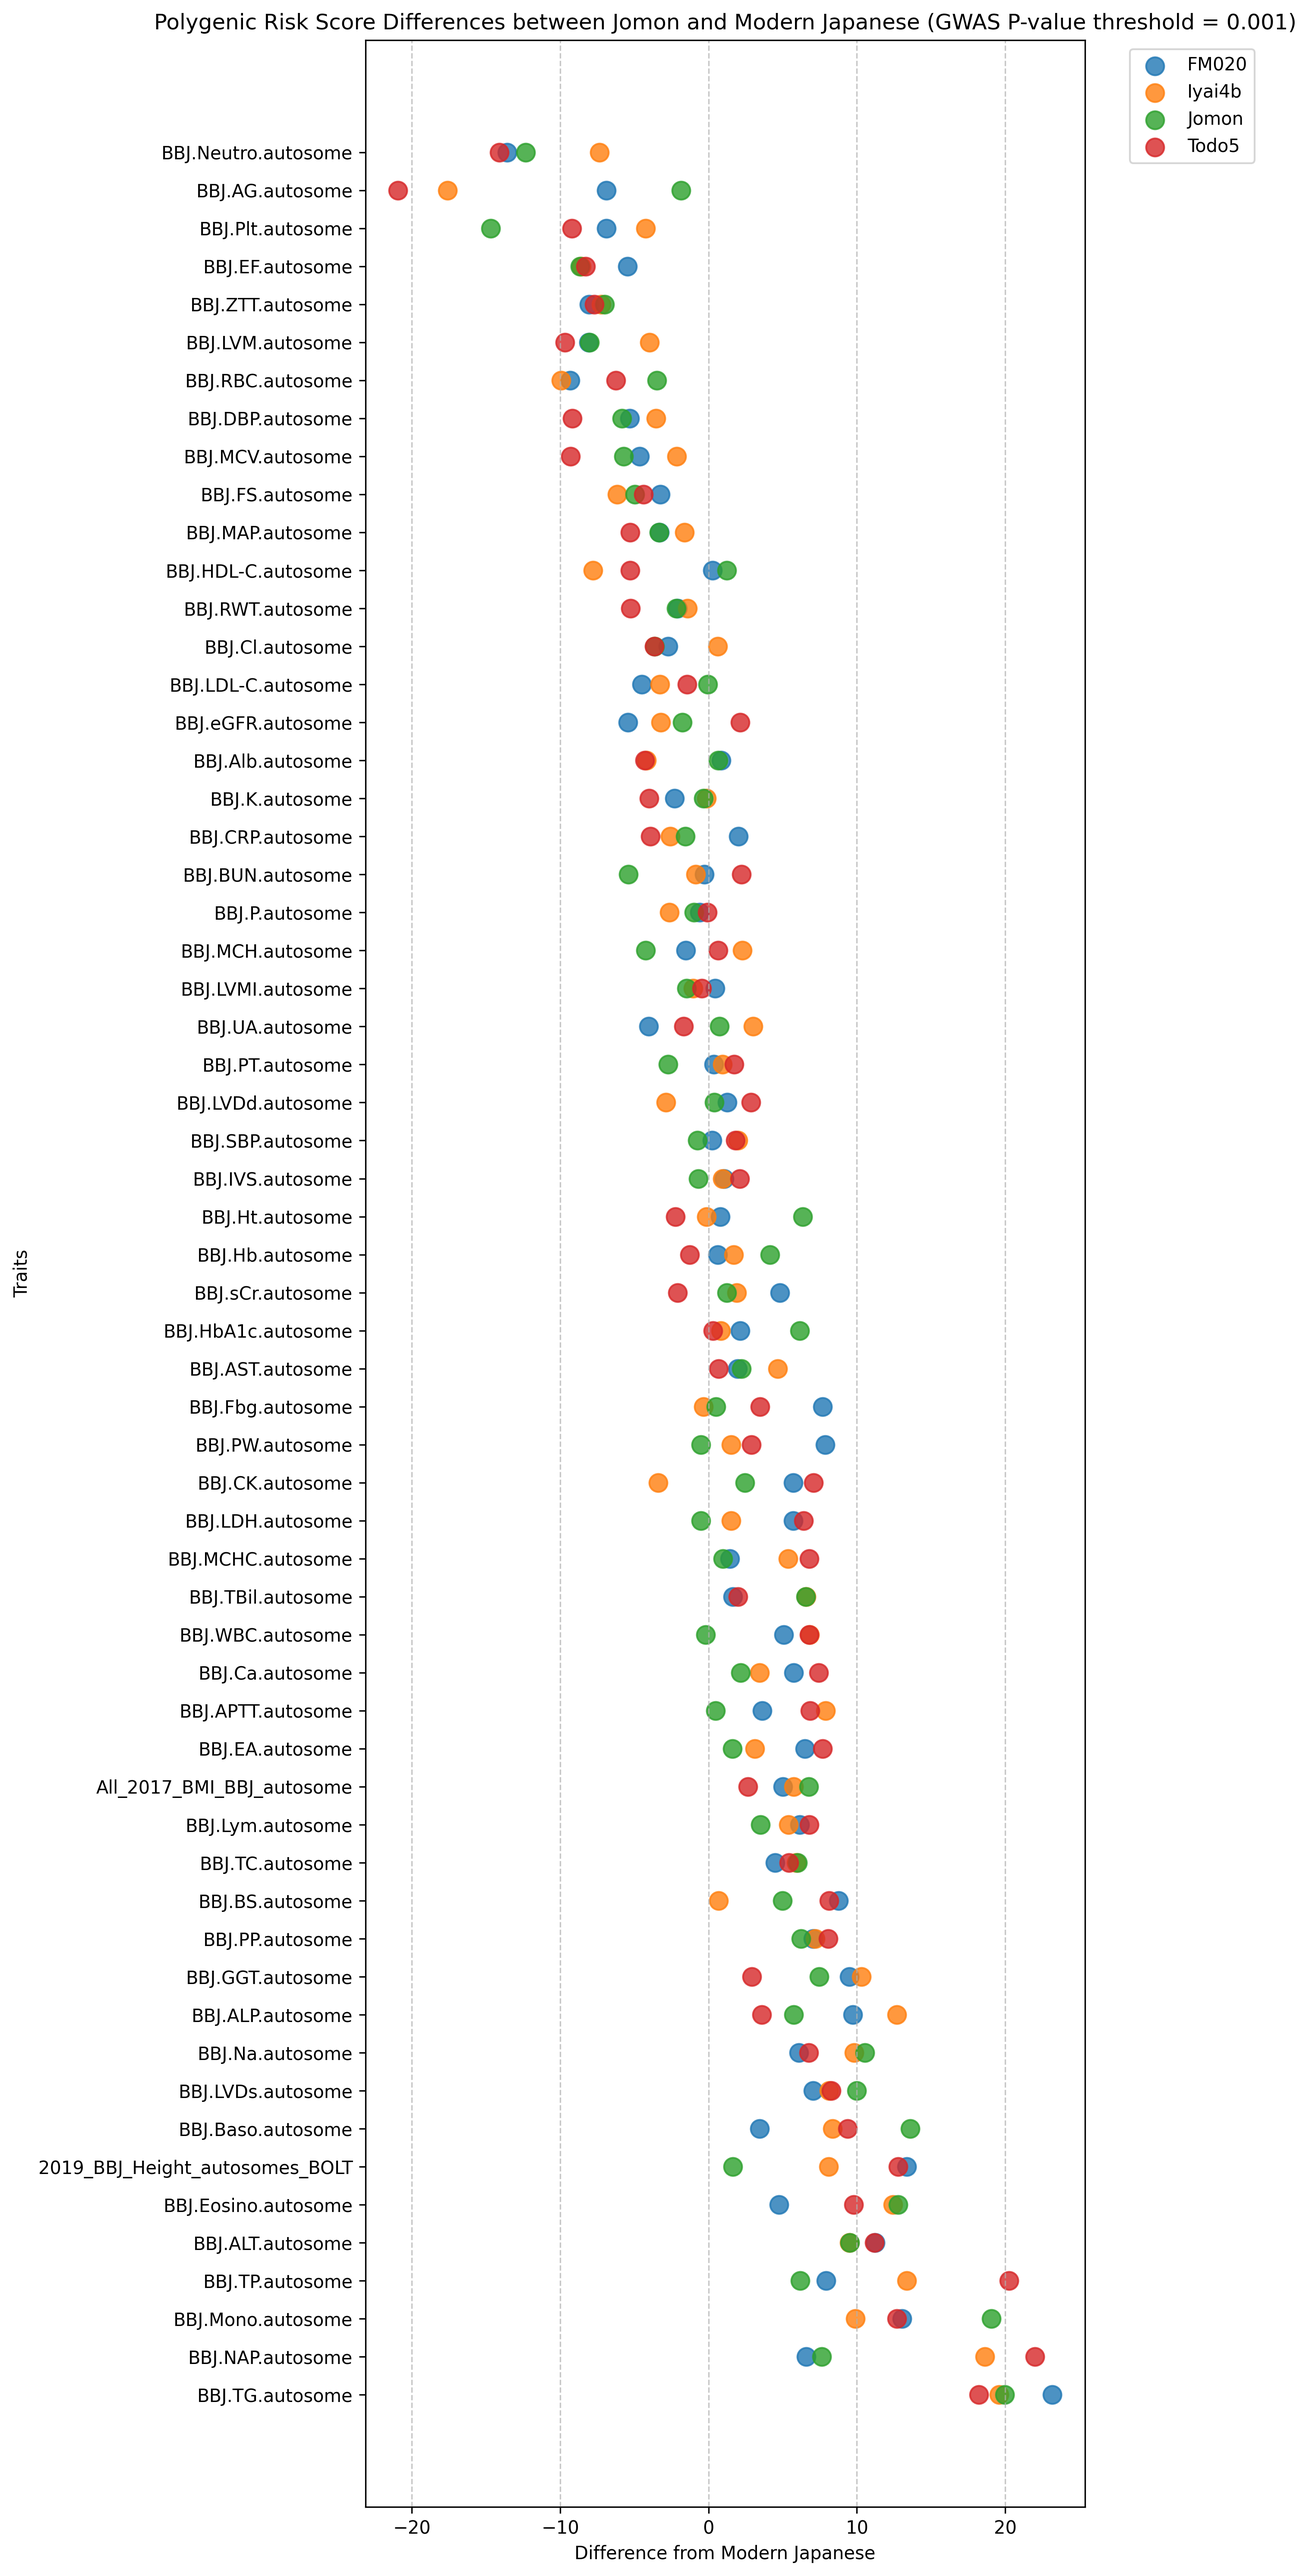
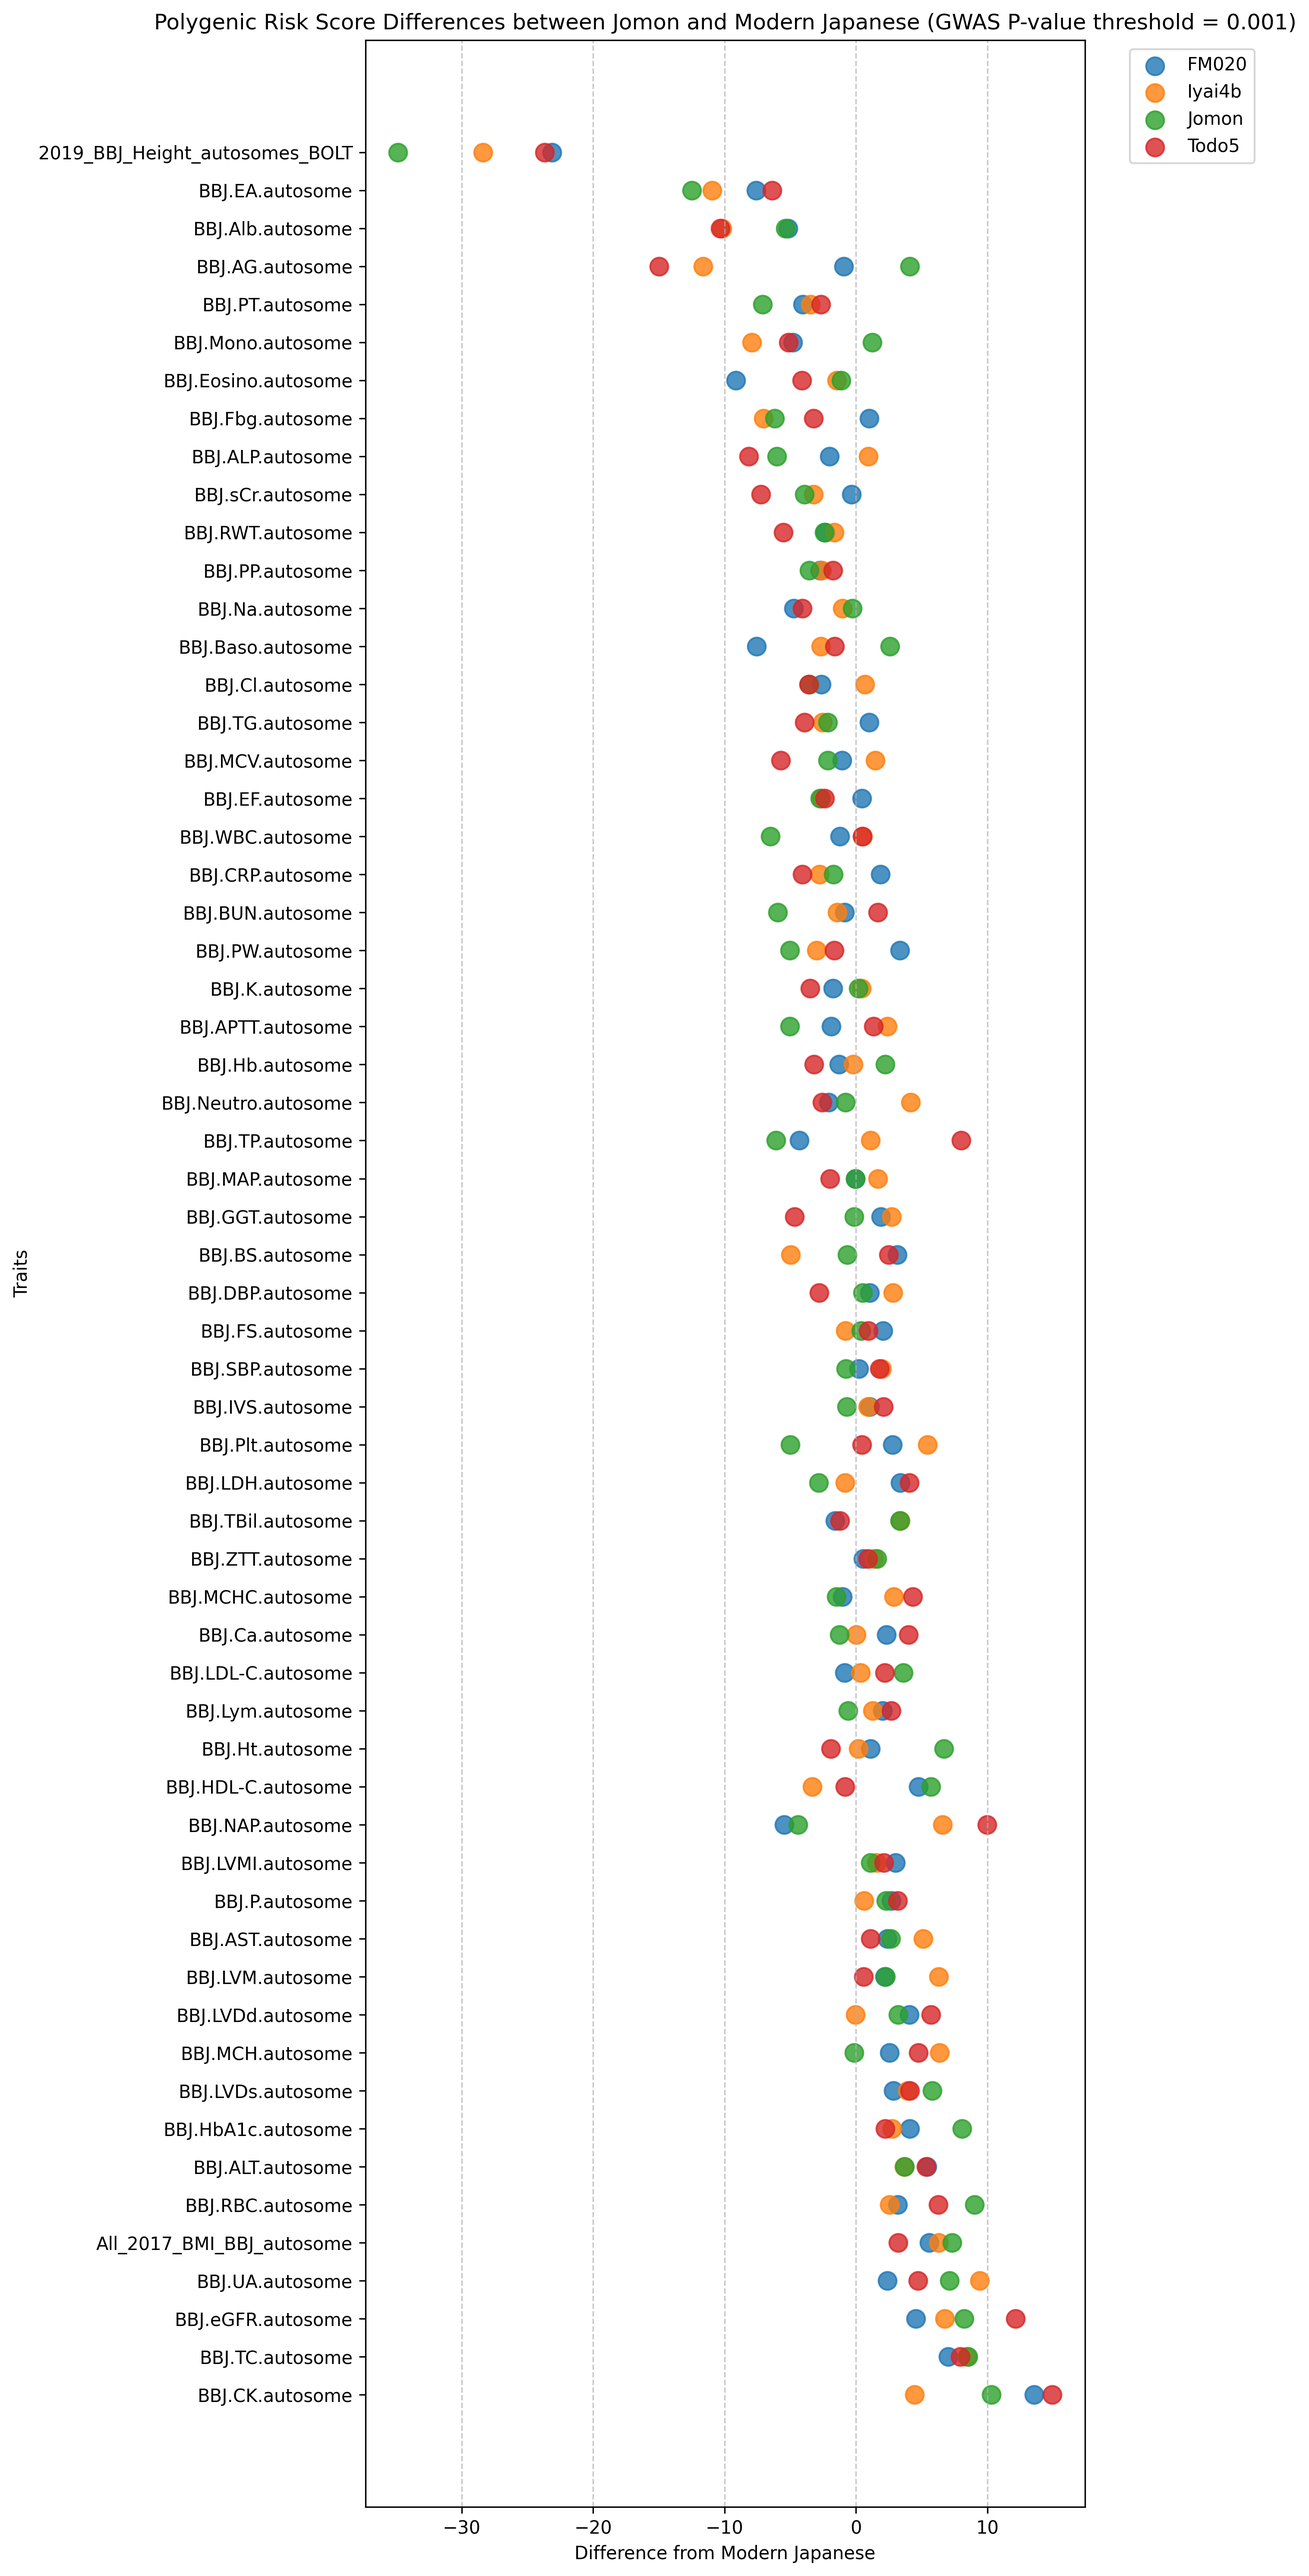
日本人平均をひかずに計算

diff --git a/6-PRS/plot.py b/6-PRS/plot.py
@@ -6,7 +6,7 @@ def plot_PRS_diff(threshold):
     data = pd.read_csv(f"/home/mkato/hdd_data/data/PS/PRS_scores/PRS_scores_p{threshold}.txt", sep="\t", comment="#", index_col=0)
 
     # 現代日本人の値を引いて差分を計算
-    jomon_diff = data.iloc[:-1, :] - data.iloc[-1, :]
+    jomon_diff = data.iloc[:-1, :] #- data.iloc[-1, :]
 
     # 個体名をアンダーバーより前の部分のみに変更
     jomon_diff.index = [idx.split("_")[0] for idx in jomon_diff.index]
